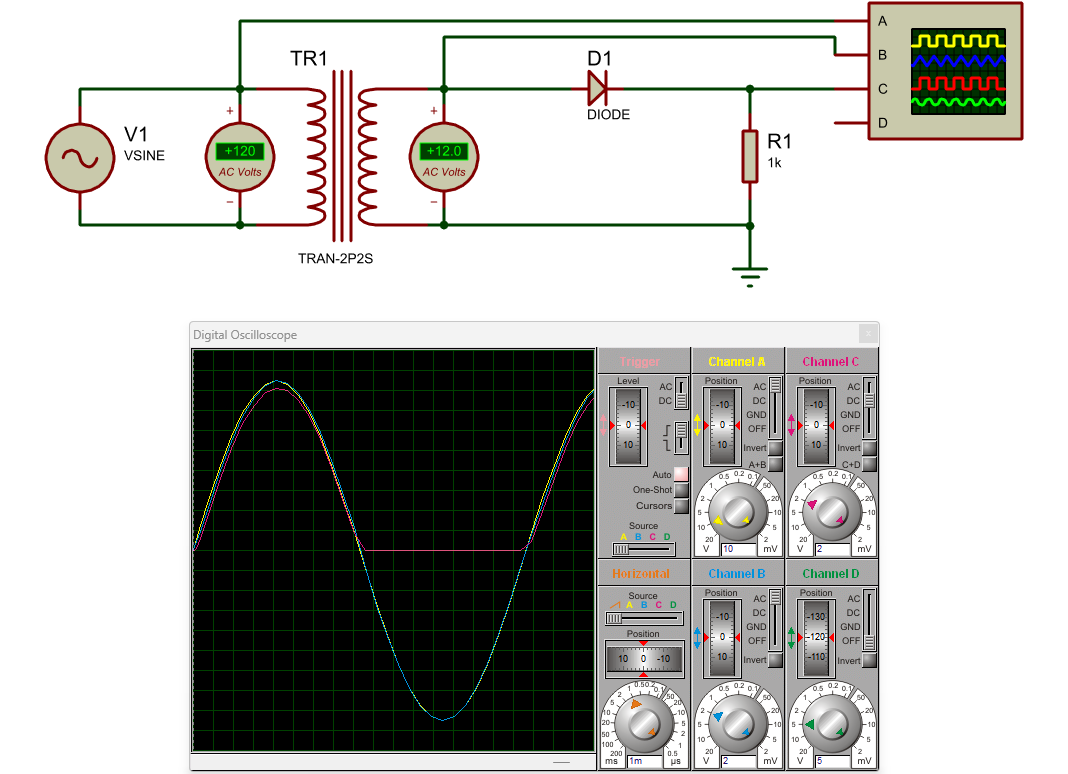
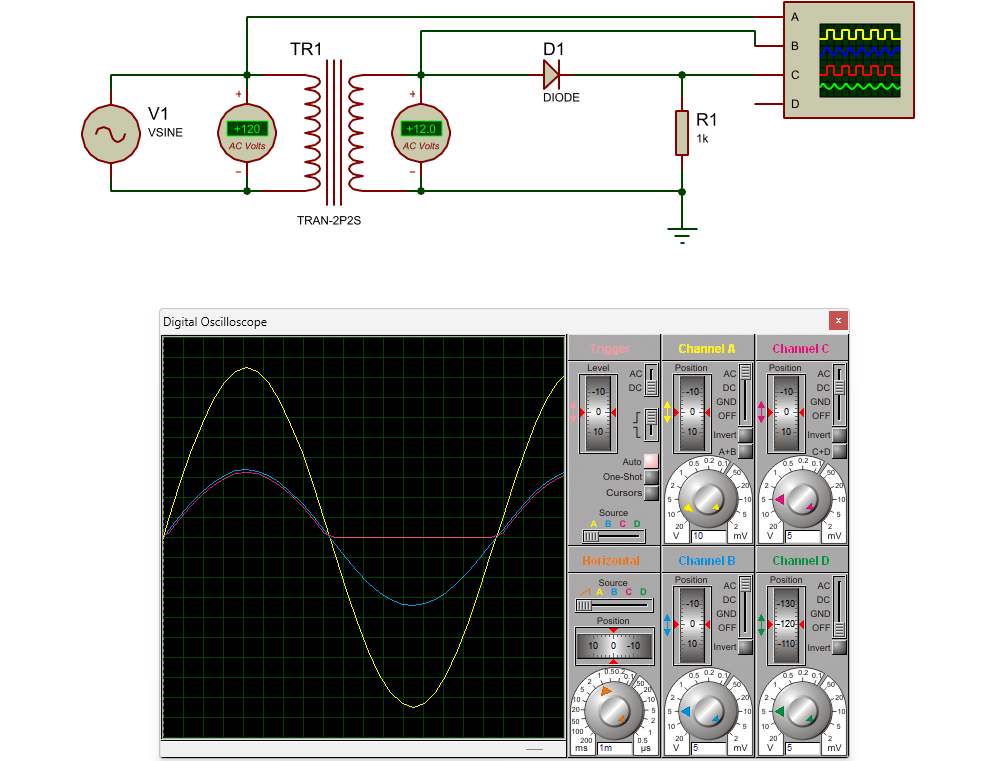
822

Changed region(s): [[0.1552, 0.3929, 0.8689, 1.0], [0.031, 0.0, 0.962, 0.3627]]

diff --git a/Electronica analoga/0 Electronica analoga.html b/Electronica analoga/0 Electronica analoga.html
@@ -93,9 +93,12 @@
 				</tr>
 				<tr>
 					<td>
-						<input class="ButtonSub" type="button" target="_self" onclick="window.location='2.2 Circuitos rectificadores.html'" value="          2.2.2 Rectificador de onda completa">
+						<input class="ButtonSub" type="button" target="_self" onclick="window.location='2.2 Circuitos rectificadores.html'" value="          2.2.2 Rectificador de onda completa con transformador con derivación central">
 					</td>
 				</tr>
+				<tr>
+				  <td><input class="ButtonSub" type="button" target="_self" onclick="window.location='2.2 Circuitos rectificadores.html'" value="          2.2.3 Rectificador de onda completa"></td>
+			  </tr>
 				<tr>
 					<td>
 						<input class="ButtonSub" type="button" target="_self" onclick="window.location='2.3 Multiplicadores de voltaje.html'" value="    2.3 Multiplicadores de voltaje">

diff --git a/Electronica analoga/2.2 Circuitos rectificadores.html b/Electronica analoga/2.2 Circuitos rectificadores.html
@@ -31,9 +31,13 @@
 			<br><br>
 			<div align="center"><img src="img/2.2.1_4.png" alt="" width="auto" height="auto"></div>
 			<br><br>
-			<b><i>2.2.2 Rectificador de onda completa</i></b>
+			<b><i>2.2.2 Rectificador de onda completa con transformador con derivación central</i></b>
 			<br><br>
 			<div align="center"><img src="img/2.2.2_1.png" alt="" width="auto" height="auto"></div>
+			<br><br>
+			<b><i>2.2.3 Rectificador de onda completa con transformador</i></b>
+			<br><br>
+			<div align="center"><img src="img/2.2.2_2.png" alt="" width="auto" height="auto"></div>
 		</div>
 	</body>
 </html>
